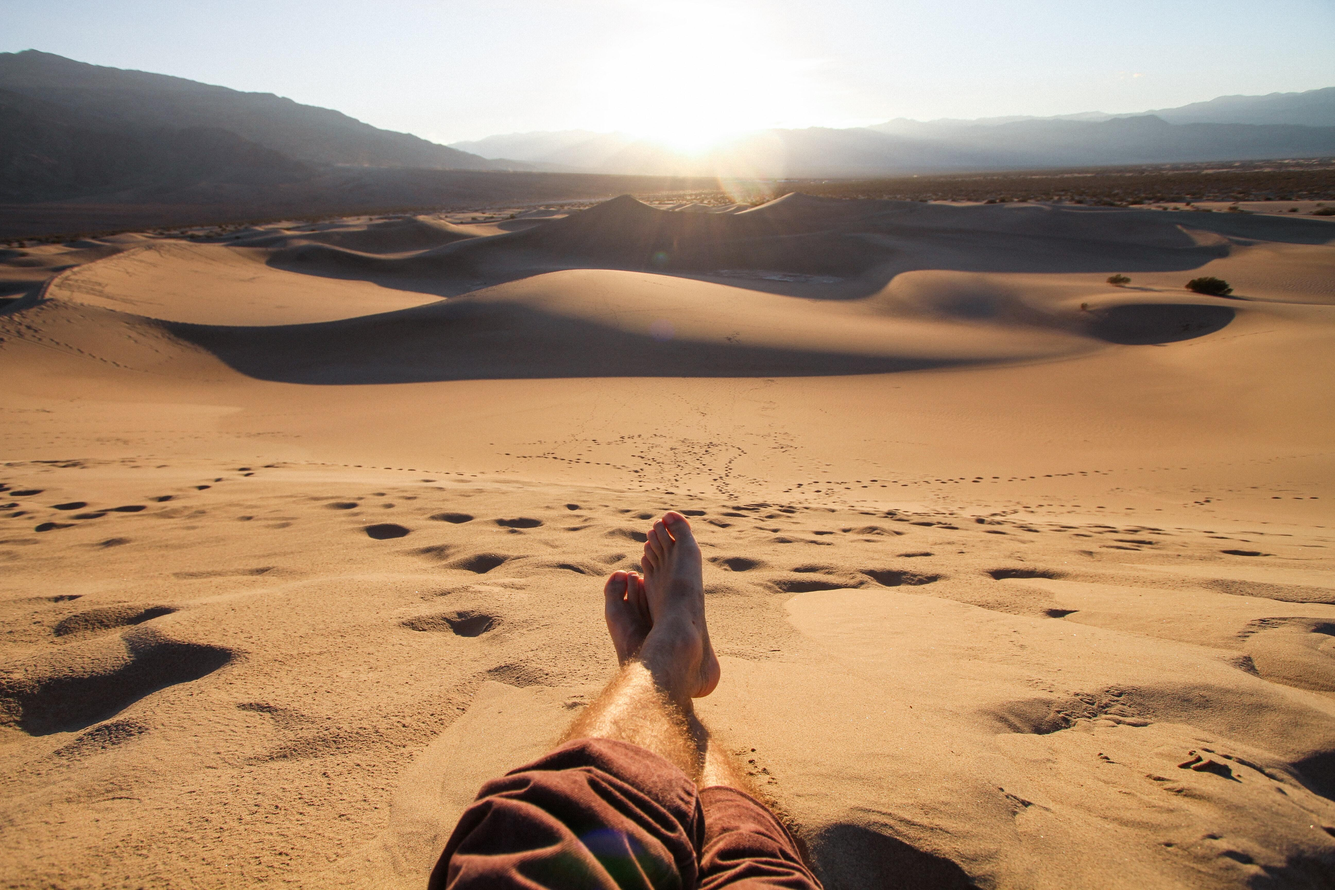
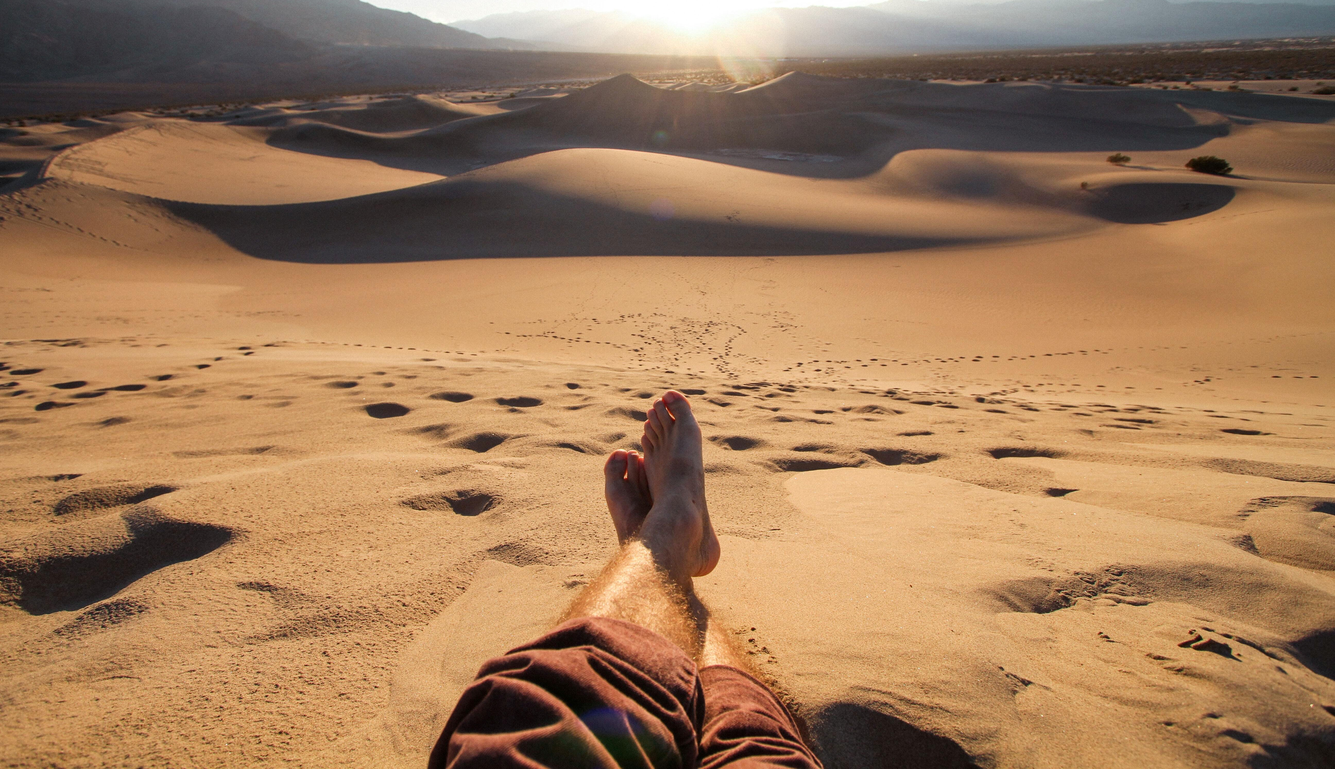
changed image on ailments page

diff --git a/application/src/main/resources/static/js/react-client/src/pages/ailments-screen/style.module.scss b/application/src/main/resources/static/js/react-client/src/pages/ailments-screen/style.module.scss
@@ -7,25 +7,26 @@
   
   
   .heroImage{
-  width:100%;
-  background-position: center;
-  background-repeat:no-repeat;
-  background-size:cover;
-  position:relative;
-  height: 600px;
+    width:100%;
+    background-position: center;
+    background-repeat: no-repeat;
+    background-size: cover;
+    position: relative;
+    object-fit: cover;
+    height: 500px;
   }
+
   .centered {
+    font-family: 'Ubuntu', sans-serif;
     position: absolute;
-    top: 50%;
+    top: 30%;
     left: 50%;
     transform: translate(-50%, -50%);
-    font-size: 40px;
-    font-weight:bolder;
-    border:black solid 5px;
-    padding:10px;
-    color:black;
-    background-color:white;
-    border-radius:10px
+    font-size: 60px;
+    font-weight: bolder;
+    color:#000;
+    text-shadow: 2px 2px #fff;
+    background-color: transparent;
   }
   
   

diff --git a/application/src/main/resources/static/js/react-client/src/pages/ailments-screen/index.js b/application/src/main/resources/static/js/react-client/src/pages/ailments-screen/index.js
@@ -1,5 +1,5 @@
 import React, { useEffect, useState } from "react";
-import shoesbanner from '../../assets/images/shoesbanner.jpg';
+import sandfeet from '../../assets/images/sandfeet.jpg';
 import Axios from "axios";
 import style from './style.module.scss';
 import {Link} from 'react-router-dom'
@@ -45,8 +45,8 @@ const AilmentScreen = () => {
     return (
         <div className={style.ailmentsBody}>
             <div >
-                <img src={shoesbanner} className={style.heroImage}></img>
-                <div className={style.centered}>Click A Condition Or Treatment To Learn More!</div>
+                <img src={sandfeet} className={style.heroImage}></img>
+                <div className={style.centered}>Ailments & Treatments</div>
             </div>
             
         <div>

diff --git a/application/src/main/resources/static/js/react-client/src/pages/home-screen/style.module.scss b/application/src/main/resources/static/js/react-client/src/pages/home-screen/style.module.scss
@@ -7,9 +7,6 @@
 
   .heroImage{
     width:100%;
-    background-position: center;
-    background-repeat: no-repeat;
-    background-size: cover;
     position: relative;
     object-fit: cover;
     height: 500px;
